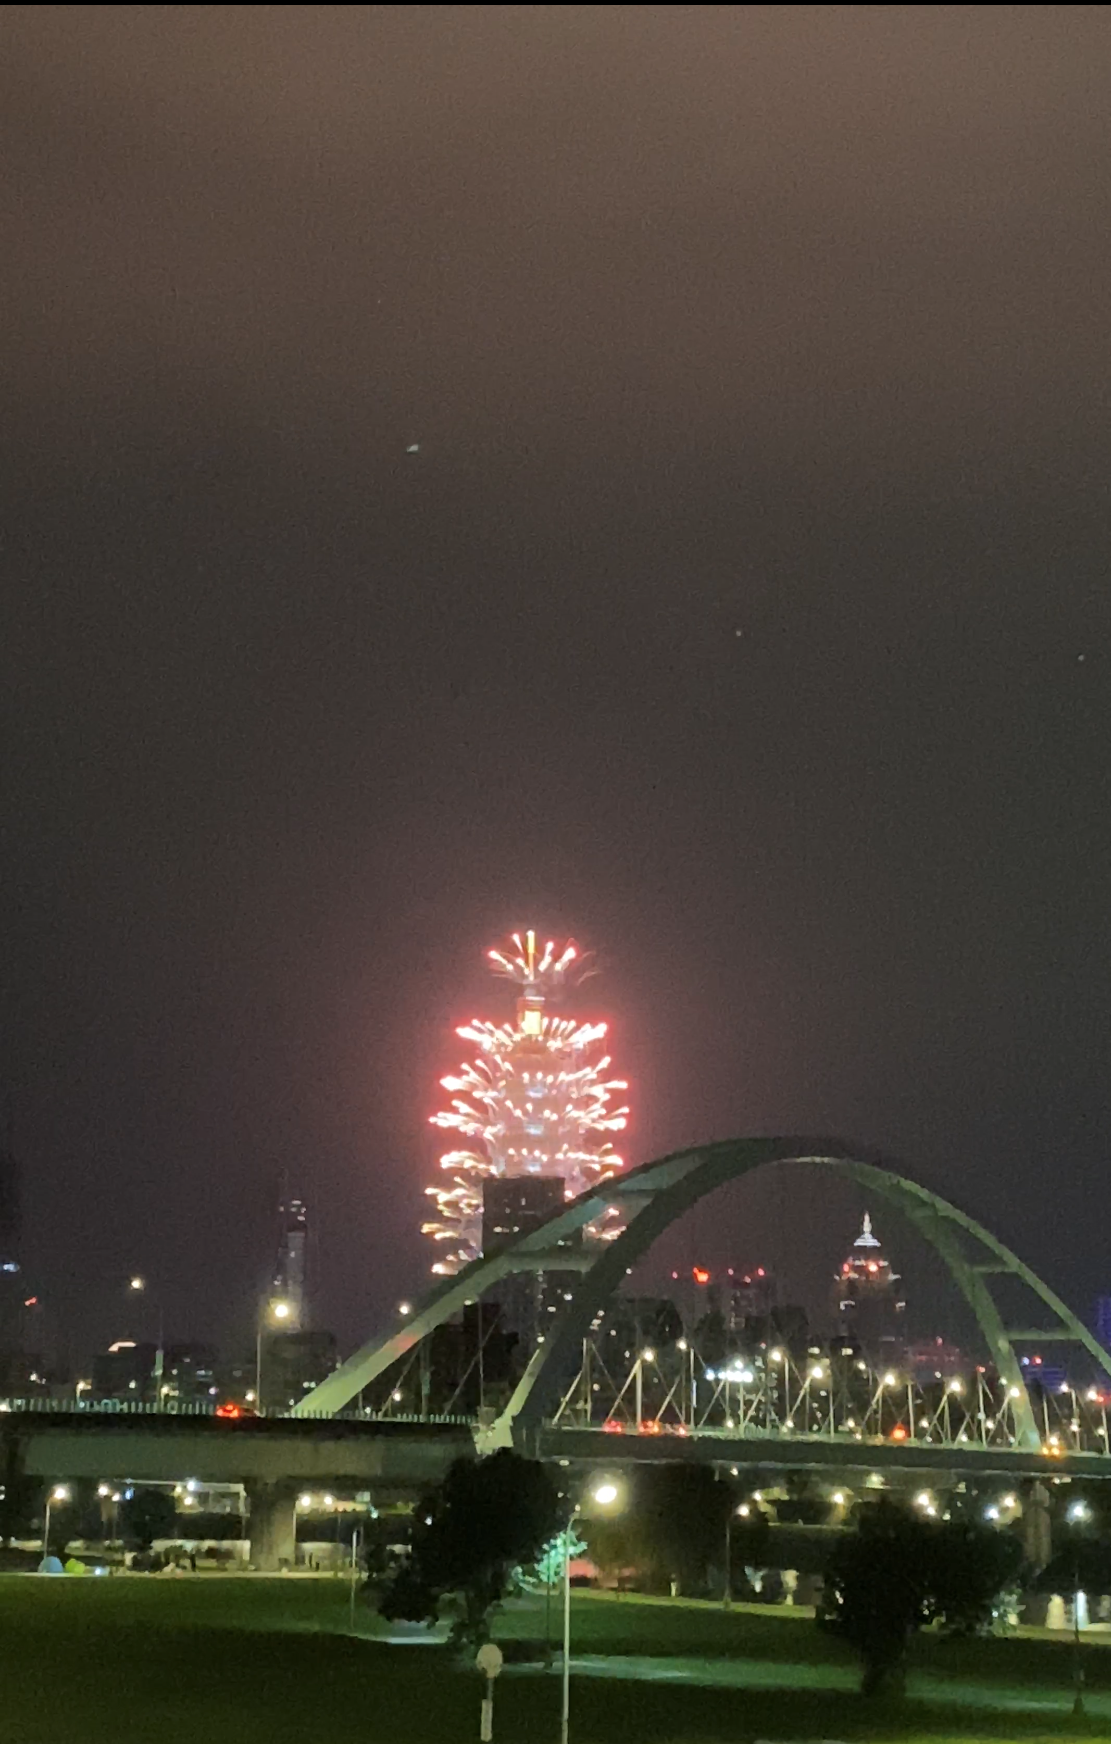
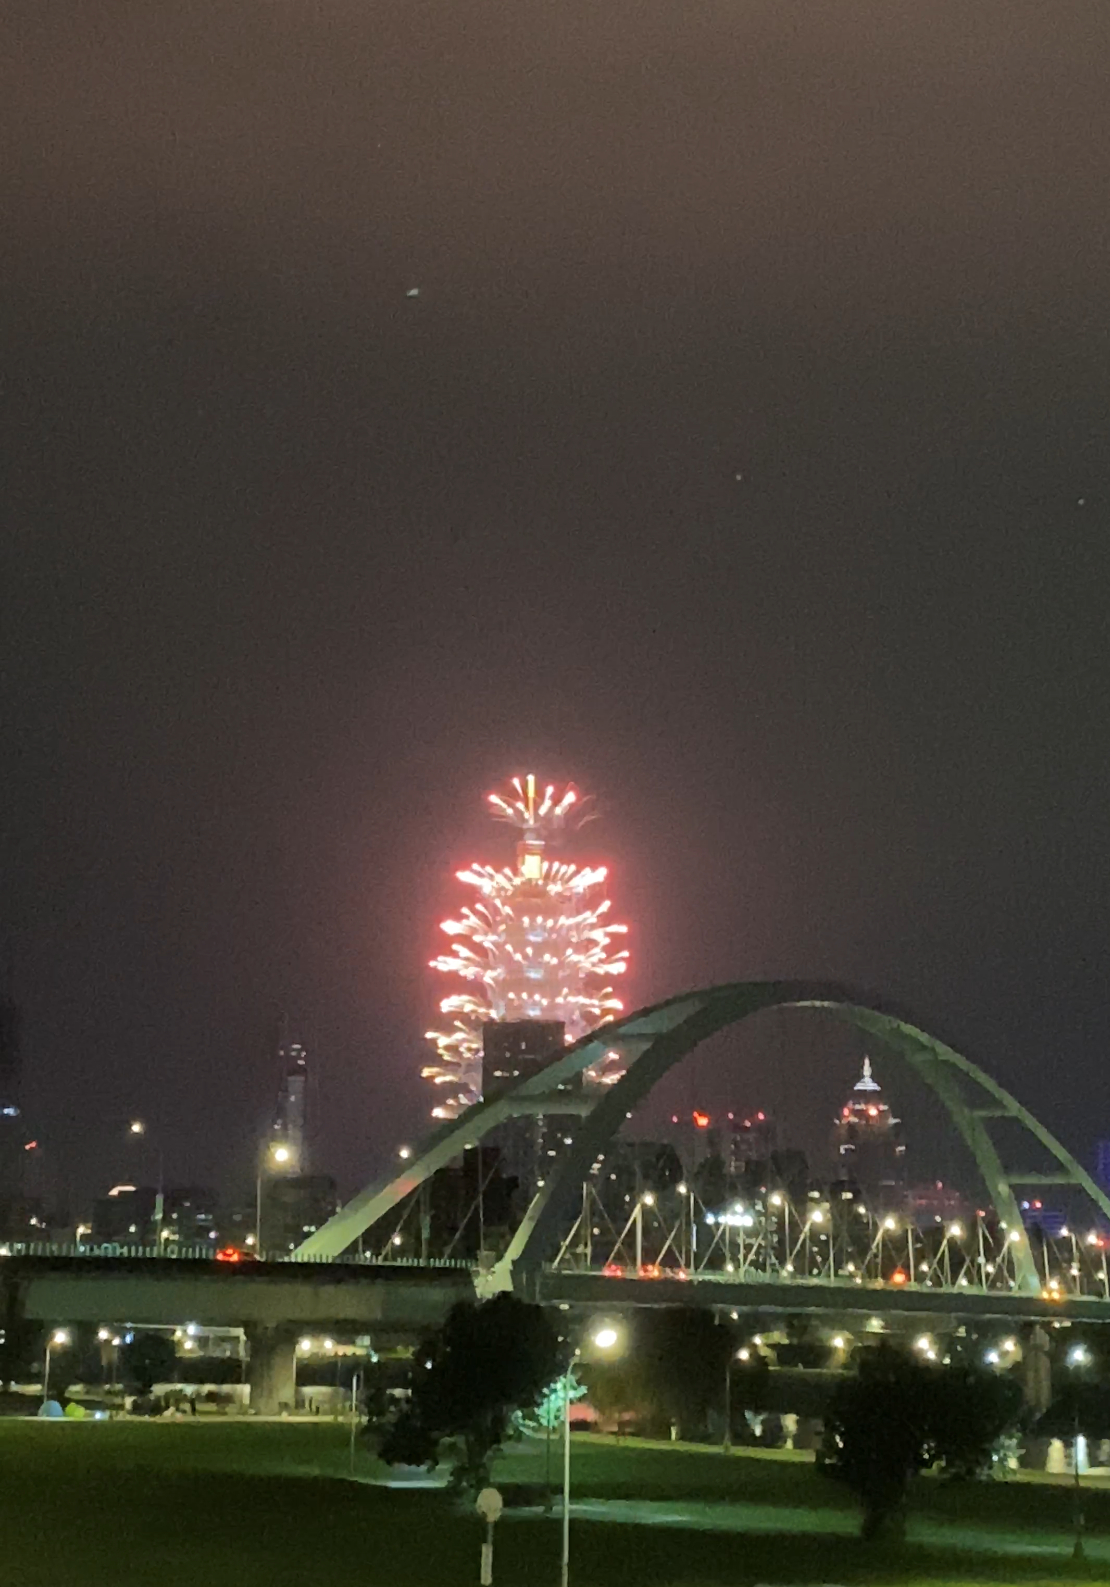
[ToFish] Load smaller pictures & revise date pictures.
* Load smaller 50% photos to fix loading too slow problem.
* Add options to decide whether to show original size photos.
* Crop some photos.

Changed region(s): [[0.0, 0.4631, 1.0, 0.988], [0.0, 0.0, 1.0, 0.0309], [0.0, 0.6793, 0.0306, 0.741]]

diff --git a/ToFish/script/main.js b/ToFish/script/main.js
@@ -1,5 +1,7 @@
 // Whether to turn on showing image
 var SHOW_IMAGE_AND_CAN_JUMP = true;
+// Whether to display photo in original size (result in slowly loading)
+var SHOW_ORIGINAL_SIZE_PHOTO = false;
 // Build go out event dictionary
 var eventDict = createEventDictionary();
 
@@ -193,12 +195,15 @@ function onClickToImage(clicked_id) {
 
     // Jump to show image
     window.location.href="#date_picture";
-    //window.location.hash = '#date_picture';
+
     // Dynamically give image source
-    var picture_name = clicked_id.slice(-6) + '.JPG';
-    //alert(picture_name);
-    document.getElementById("date_picture").src = "img\\DatePicture\\" + picture_name;
-    //document["date_picture"].src = ;
+    if (SHOW_ORIGINAL_SIZE_PHOTO) {
+        var picture_name = clicked_id.slice(-6) + '.JPG';
+        document.getElementById("date_picture").src = "img\\DatePicture\\" + picture_name;
+    } else {
+        var picture_name = clicked_id.slice(-6) + '.jpg';
+        document.getElementById("date_picture").src = "img\\DatePicture_smaller_50%\\" + picture_name;
+    }
 
     /* need to stop the form sending of the form
      UPDATE as comment: This may not be exactly correct syntax 
